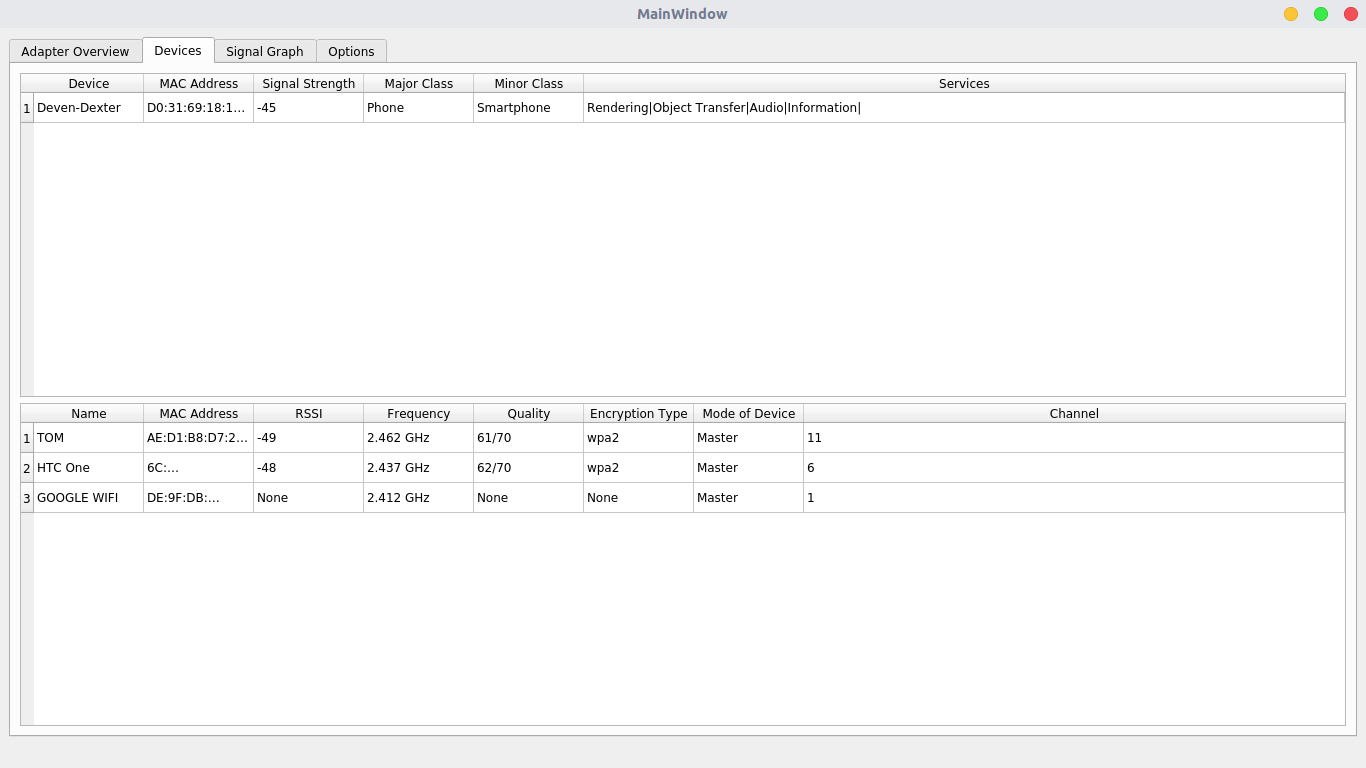
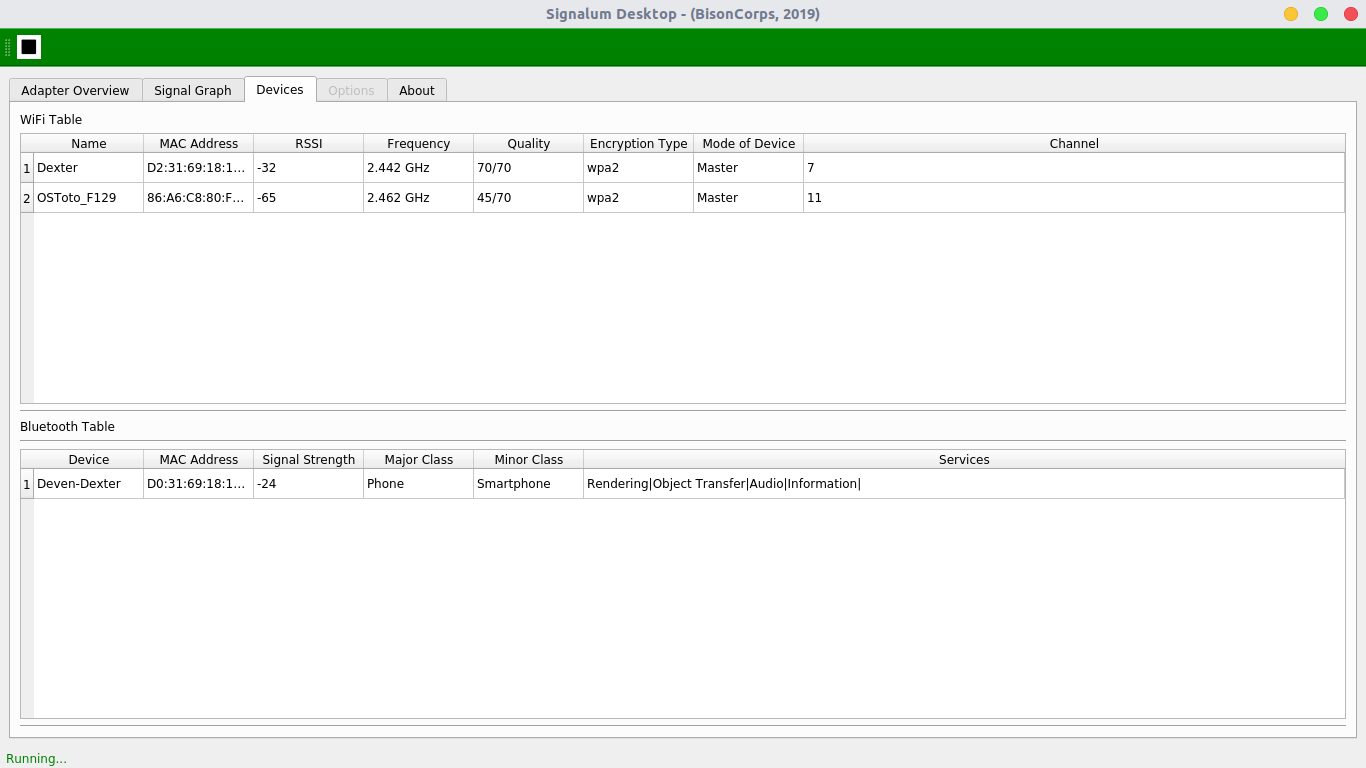
changed example images

diff --git a/src/main/python/qt/signalum_desktop.py b/src/main/python/qt/signalum_desktop.py
@@ -127,21 +127,12 @@ class Ui_MainWindow(object):
         brush = QtGui.QBrush(QtGui.QColor(255, 255, 255))
         brush.setStyle(QtCore.Qt.SolidPattern)
         palette.setBrush(QtGui.QPalette.Active, QtGui.QPalette.Text, brush)
-        brush = QtGui.QBrush(QtGui.QColor(255, 255, 255, 128))
-        brush.setStyle(QtCore.Qt.NoBrush)
-        palette.setBrush(QtGui.QPalette.Active, QtGui.QPalette.PlaceholderText, brush)
         brush = QtGui.QBrush(QtGui.QColor(255, 255, 255))
         brush.setStyle(QtCore.Qt.SolidPattern)
         palette.setBrush(QtGui.QPalette.Inactive, QtGui.QPalette.Text, brush)
-        brush = QtGui.QBrush(QtGui.QColor(255, 255, 255, 128))
-        brush.setStyle(QtCore.Qt.NoBrush)
-        palette.setBrush(QtGui.QPalette.Inactive, QtGui.QPalette.PlaceholderText, brush)
         brush = QtGui.QBrush(QtGui.QColor(190, 190, 190))
         brush.setStyle(QtCore.Qt.SolidPattern)
         palette.setBrush(QtGui.QPalette.Disabled, QtGui.QPalette.Text, brush)
-        brush = QtGui.QBrush(QtGui.QColor(255, 255, 255, 128))
-        brush.setStyle(QtCore.Qt.NoBrush)
-        palette.setBrush(QtGui.QPalette.Disabled, QtGui.QPalette.PlaceholderText, brush)
         self.graphTab.setPalette(palette)
         self.graphTab.setObjectName("graphTab")
         self.verticalLayout_7 = QtWidgets.QVBoxLayout(self.graphTab)
@@ -326,6 +317,53 @@ class Ui_MainWindow(object):
         self.verticalLayout_12.setObjectName("verticalLayout_12")
         self.verticalLayout_5.addLayout(self.verticalLayout_12)
         self.tabWidget.addTab(self.optionsTab, "")
+        self.About = QtWidgets.QWidget()
+        self.About.setObjectName("About")
+        self.verticalLayout_9 = QtWidgets.QVBoxLayout(self.About)
+        self.verticalLayout_9.setObjectName("verticalLayout_9")
+        self.textEdit = QtWidgets.QTextEdit(self.About)
+        self.textEdit.setObjectName("textEdit")
+        self.verticalLayout_9.addWidget(self.textEdit)
+        self.line_9 = QtWidgets.QFrame(self.About)
+        self.line_9.setFrameShape(QtWidgets.QFrame.HLine)
+        self.line_9.setFrameShadow(QtWidgets.QFrame.Sunken)
+        self.line_9.setObjectName("line_9")
+        self.verticalLayout_9.addWidget(self.line_9)
+        self.label_6 = QtWidgets.QLabel(self.About)
+        self.label_6.setObjectName("label_6")
+        self.verticalLayout_9.addWidget(self.label_6)
+        self.line_10 = QtWidgets.QFrame(self.About)
+        self.line_10.setFrameShape(QtWidgets.QFrame.HLine)
+        self.line_10.setFrameShadow(QtWidgets.QFrame.Sunken)
+        self.line_10.setObjectName("line_10")
+        self.verticalLayout_9.addWidget(self.line_10)
+        self.horizontalLayout = QtWidgets.QHBoxLayout()
+        self.horizontalLayout.setObjectName("horizontalLayout")
+        self.textEdit_2 = QtWidgets.QTextEdit(self.About)
+        self.textEdit_2.setObjectName("textEdit_2")
+        self.horizontalLayout.addWidget(self.textEdit_2)
+        self.textEdit_3 = QtWidgets.QTextEdit(self.About)
+        self.textEdit_3.setEnabled(True)
+        self.textEdit_3.setObjectName("textEdit_3")
+        self.horizontalLayout.addWidget(self.textEdit_3)
+        self.textEdit_4 = QtWidgets.QTextEdit(self.About)
+        self.textEdit_4.setObjectName("textEdit_4")
+        self.horizontalLayout.addWidget(self.textEdit_4)
+        self.line_12 = QtWidgets.QFrame(self.About)
+        self.line_12.setFrameShape(QtWidgets.QFrame.VLine)
+        self.line_12.setFrameShadow(QtWidgets.QFrame.Sunken)
+        self.line_12.setObjectName("line_12")
+        self.horizontalLayout.addWidget(self.line_12)
+        self.textEdit_5 = QtWidgets.QTextEdit(self.About)
+        self.textEdit_5.setObjectName("textEdit_5")
+        self.horizontalLayout.addWidget(self.textEdit_5)
+        self.line_13 = QtWidgets.QFrame(self.About)
+        self.line_13.setFrameShape(QtWidgets.QFrame.VLine)
+        self.line_13.setFrameShadow(QtWidgets.QFrame.Sunken)
+        self.line_13.setObjectName("line_13")
+        self.horizontalLayout.addWidget(self.line_13)
+        self.verticalLayout_9.addLayout(self.horizontalLayout)
+        self.tabWidget.addTab(self.About, "")
         self.verticalLayout.addWidget(self.tabWidget)
         MainWindow.setCentralWidget(self.centralwidget)
         self.menubar = QtWidgets.QMenuBar(MainWindow)
@@ -337,7 +375,7 @@ class Ui_MainWindow(object):
         MainWindow.setStatusBar(self.statusbar)
 
         self.retranslateUi(MainWindow)
-        self.tabWidget.setCurrentIndex(0)
+        self.tabWidget.setCurrentIndex(4)
         QtCore.QMetaObject.connectSlotsByName(MainWindow)
 
     def retranslateUi(self, MainWindow):
@@ -431,4 +469,56 @@ class Ui_MainWindow(object):
         self.wifiSwitch.setText(_translate("MainWindow", "Turn Wifi on"))
         self.bluetoothSwitch.setText(_translate("MainWindow", "Turn Bluetooth on"))
         self.tabWidget.setTabText(self.tabWidget.indexOf(self.optionsTab), _translate("MainWindow", "Options"))
+        self.textEdit.setHtml(_translate("MainWindow", "<!DOCTYPE HTML PUBLIC \"-//W3C//DTD HTML 4.0//EN\" \"http://www.w3.org/TR/REC-html40/strict.dtd\">\n"
+"<html><head><meta name=\"qrichtext\" content=\"1\" /><style type=\"text/css\">\n"
+"p, li { white-space: pre-wrap; }\n"
+"</style></head><body style=\" font-family:\'Ubuntu\'; font-size:11pt; font-weight:400; font-style:normal;\">\n"
+"<p align=\"justify\" style=\" margin-top:0px; margin-bottom:0px; margin-left:0px; margin-right:0px; -qt-block-indent:0; text-indent:0px;\"><span style=\" font-size:16pt; font-weight:600;\">About Signalum Desktop</span></p>\n"
+"<p align=\"justify\" style=\"-qt-paragraph-type:empty; margin-top:0px; margin-bottom:0px; margin-left:0px; margin-right:0px; -qt-block-indent:0; text-indent:0px; font-size:16pt; font-weight:600;\"><br /></p>\n"
+"<p align=\"justify\" style=\" margin-top:0px; margin-bottom:0px; margin-left:0px; margin-right:0px; -qt-block-indent:0; text-indent:0px;\"><span style=\" font-weight:600; font-style:italic;\">Signalum Desktop</span> is the official desktop application surrounding the python <span style=\" font-weight:600; font-style:italic;\">signalum</span> library. It was created out of the neccessity of lack of a GUI tool that featured real-time simultaneous signal details of wifi and bluetooth signals.</p>\n"
+"<p align=\"justify\" style=\"-qt-paragraph-type:empty; margin-top:0px; margin-bottom:0px; margin-left:0px; margin-right:0px; -qt-block-indent:0; text-indent:0px;\"><br /></p>\n"
+"<p align=\"justify\" style=\" margin-top:0px; margin-bottom:0px; margin-left:0px; margin-right:0px; -qt-block-indent:0; text-indent:0px;\"><a href=\"https://github.com/bisoncorps/signalum-desktop\"><span style=\" text-decoration: underline; color:#f57900;\">Github</span></a></p>\n"
+"<p align=\"justify\" style=\" margin-top:0px; margin-bottom:0px; margin-left:0px; margin-right:0px; -qt-block-indent:0; text-indent:0px;\"><a href=\"https://github.com/bisoncorps/signalum-desktop/issues\"><span style=\" text-decoration: underline; color:#f57900;\">Report Issues</span></a></p>\n"
+"<p align=\"justify\" style=\" margin-top:0px; margin-bottom:0px; margin-left:0px; margin-right:0px; -qt-block-indent:0; text-indent:0px;\"><a href=\"https://github.com/bisoncorps/signalum\"><span style=\" text-decoration: underline; color:#f57900;\">Python Library</span></a></p></body></html>"))
+        self.label_6.setText(_translate("MainWindow", "Development Team"))
+        self.textEdit_2.setHtml(_translate("MainWindow", "<!DOCTYPE HTML PUBLIC \"-//W3C//DTD HTML 4.0//EN\" \"http://www.w3.org/TR/REC-html40/strict.dtd\">\n"
+"<html><head><meta name=\"qrichtext\" content=\"1\" /><style type=\"text/css\">\n"
+"p, li { white-space: pre-wrap; }\n"
+"</style></head><body style=\" font-family:\'Ubuntu\'; font-size:11pt; font-weight:400; font-style:normal;\">\n"
+"<p align=\"justify\" style=\" margin-top:0px; margin-bottom:0px; margin-left:0px; margin-right:0px; -qt-block-indent:0; text-indent:0px;\"><span style=\" font-weight:600;\">Mmadu Manasseh</span></p>\n"
+"<p align=\"justify\" style=\"-qt-paragraph-type:empty; margin-top:0px; margin-bottom:0px; margin-left:0px; margin-right:0px; -qt-block-indent:0; text-indent:0px; font-weight:600;\"><br /></p>\n"
+"<p align=\"justify\" style=\" margin-top:0px; margin-bottom:0px; margin-left:0px; margin-right:0px; -qt-block-indent:0; text-indent:0px;\">Python, React, C++ Developer</p>\n"
+"<p align=\"justify\" style=\"-qt-paragraph-type:empty; margin-top:0px; margin-bottom:0px; margin-left:0px; margin-right:0px; -qt-block-indent:0; text-indent:0px;\"><br /></p>\n"
+"<p align=\"justify\" style=\" margin-top:0px; margin-bottom:0px; margin-left:0px; margin-right:0px; -qt-block-indent:0; text-indent:0px;\"><a href=\"https://mensaah.github.io\"><span style=\" text-decoration: underline; color:#f57900;\">Website</span></a></p>\n"
+"<p align=\"justify\" style=\" margin-top:0px; margin-bottom:0px; margin-left:0px; margin-right:0px; -qt-block-indent:0; text-indent:0px;\"><a href=\"https://github.com/MensaaH\"><span style=\" text-decoration: underline; color:#f57900;\">Github</span></a></p></body></html>"))
+        self.textEdit_3.setHtml(_translate("MainWindow", "<!DOCTYPE HTML PUBLIC \"-//W3C//DTD HTML 4.0//EN\" \"http://www.w3.org/TR/REC-html40/strict.dtd\">\n"
+"<html><head><meta name=\"qrichtext\" content=\"1\" /><style type=\"text/css\">\n"
+"p, li { white-space: pre-wrap; }\n"
+"</style></head><body style=\" font-family:\'Ubuntu\'; font-size:11pt; font-weight:400; font-style:normal;\">\n"
+"<p align=\"justify\" style=\" margin-top:0px; margin-bottom:0px; margin-left:0px; margin-right:0px; -qt-block-indent:0; text-indent:0px;\"><span style=\" font-weight:600;\">Diretnan Domnan</span></p>\n"
+"<p align=\"justify\" style=\"-qt-paragraph-type:empty; margin-top:0px; margin-bottom:0px; margin-left:0px; margin-right:0px; -qt-block-indent:0; text-indent:0px; font-weight:600;\"><br /></p>\n"
+"<p align=\"justify\" style=\" margin-top:0px; margin-bottom:0px; margin-left:0px; margin-right:0px; -qt-block-indent:0; text-indent:0px;\">Python Developer and AI Engineer</p>\n"
+"<p align=\"justify\" style=\"-qt-paragraph-type:empty; margin-top:0px; margin-bottom:0px; margin-left:0px; margin-right:0px; -qt-block-indent:0; text-indent:0px;\"><br /></p>\n"
+"<p align=\"justify\" style=\" margin-top:0px; margin-bottom:0px; margin-left:0px; margin-right:0px; -qt-block-indent:0; text-indent:0px;\"><a href=\"https://diretnandomnan.webnode.com\"><span style=\" text-decoration: underline; color:#f57900;\">Website</span></a></p>\n"
+"<p align=\"justify\" style=\" margin-top:0px; margin-bottom:0px; margin-left:0px; margin-right:0px; -qt-block-indent:0; text-indent:0px;\"><a href=\"https://github.com/deven96\"><span style=\" text-decoration: underline; color:#f57900;\">Github</span></a></p></body></html>"))
+        self.textEdit_4.setHtml(_translate("MainWindow", "<!DOCTYPE HTML PUBLIC \"-//W3C//DTD HTML 4.0//EN\" \"http://www.w3.org/TR/REC-html40/strict.dtd\">\n"
+"<html><head><meta name=\"qrichtext\" content=\"1\" /><style type=\"text/css\">\n"
+"p, li { white-space: pre-wrap; }\n"
+"</style></head><body style=\" font-family:\'Ubuntu\'; font-size:11pt; font-weight:400; font-style:normal;\">\n"
+"<p align=\"justify\" style=\" margin-top:0px; margin-bottom:0px; margin-left:0px; margin-right:0px; -qt-block-indent:0; text-indent:0px;\"><span style=\" font-weight:600;\">Wisdom Praise</span></p>\n"
+"<p align=\"justify\" style=\"-qt-paragraph-type:empty; margin-top:0px; margin-bottom:0px; margin-left:0px; margin-right:0px; -qt-block-indent:0; text-indent:0px; font-weight:600;\"><br /></p>\n"
+"<p align=\"justify\" style=\" margin-top:0px; margin-bottom:0px; margin-left:0px; margin-right:0px; -qt-block-indent:0; text-indent:0px;\">Java, Android and React Developer</p>\n"
+"<p align=\"justify\" style=\"-qt-paragraph-type:empty; margin-top:0px; margin-bottom:0px; margin-left:0px; margin-right:0px; -qt-block-indent:0; text-indent:0px;\"><br /></p>\n"
+"<p align=\"justify\" style=\" margin-top:0px; margin-bottom:0px; margin-left:0px; margin-right:0px; -qt-block-indent:0; text-indent:0px;\"><a href=\"https://wizzywit.github.io\"><span style=\" text-decoration: underline; color:#f57900;\">Website</span></a></p>\n"
+"<p align=\"justify\" style=\" margin-top:0px; margin-bottom:0px; margin-left:0px; margin-right:0px; -qt-block-indent:0; text-indent:0px;\"><a href=\"https://github.com/wizzywit\"><span style=\" text-decoration: underline; color:#f57900;\">Github</span></a></p></body></html>"))
+        self.textEdit_5.setHtml(_translate("MainWindow", "<!DOCTYPE HTML PUBLIC \"-//W3C//DTD HTML 4.0//EN\" \"http://www.w3.org/TR/REC-html40/strict.dtd\">\n"
+"<html><head><meta name=\"qrichtext\" content=\"1\" /><style type=\"text/css\">\n"
+"p, li { white-space: pre-wrap; }\n"
+"</style></head><body style=\" font-family:\'Ubuntu\'; font-size:11pt; font-weight:400; font-style:normal;\">\n"
+"<p align=\"justify\" style=\" margin-top:0px; margin-bottom:0px; margin-left:0px; margin-right:0px; -qt-block-indent:0; text-indent:0px;\"><span style=\" font-weight:600;\">Engr. Ajao Lukman</span></p>\n"
+"<p align=\"justify\" style=\"-qt-paragraph-type:empty; margin-top:0px; margin-bottom:0px; margin-left:0px; margin-right:0px; -qt-block-indent:0; text-indent:0px; font-weight:600;\"><br /></p>\n"
+"<p align=\"justify\" style=\" margin-top:0px; margin-bottom:0px; margin-left:0px; margin-right:0px; -qt-block-indent:0; text-indent:0px;\">Engineer and Lead Technologist at Computer Engineering Department, Federal University Of Technology, Minna, Nigeria</p>\n"
+"<p align=\"justify\" style=\"-qt-paragraph-type:empty; margin-top:0px; margin-bottom:0px; margin-left:0px; margin-right:0px; -qt-block-indent:0; text-indent:0px;\"><br /></p>\n"
+"<p align=\"justify\" style=\" margin-top:0px; margin-bottom:0px; margin-left:0px; margin-right:0px; -qt-block-indent:0; text-indent:0px;\"><a href=\"contact\"><span style=\" text-decoration: underline; color:#f57900;\">Contact</span></a></p></body></html>"))
+        self.tabWidget.setTabText(self.tabWidget.indexOf(self.About), _translate("MainWindow", "About"))
 

diff --git a/src/main/python/app.py b/src/main/python/app.py
@@ -22,18 +22,21 @@ class App(QtWidgets.QMainWindow, signalum_desktop.Ui_MainWindow):
         self.setupUi(self)
 
         # Define Some Actions
-        playAction = self.create_action(
+        self.playAction = self.create_action(
             '&Play...', self.start, 'Ctrl + P', 'start', 'Start/Continue Scanning')
-        stopAction = self.create_action(
+        self.stopAction = self.create_action(
             '&Stop...', self.stop, 'Ctrl + B', 'stop', 
             'Stop/Pause Scanning')
 
-        actionToolBar = self.addToolBar('Action')
-        actionToolBar.setObjectName('actionToolBar')
-        self.add_actions(actionToolBar, (playAction, stopAction))
+        self.actionToolBar = self.addToolBar('Action')
+        self.actionToolBar.setObjectName('actionToolBar')
+        self.add_actions(self.actionToolBar, (self.playAction, ))
         status = self.statusBar()
         status.setSizeGripEnabled(False)
         status.showMessage('Ready', 5000)
+
+        # get options tab index
+        self.optionsTabIndex = self.tabWidget.indexOf(self.optionsTab)
 
         # Configure Application Settings
         self.settings = QtCore.QSettings('BisonCorps', 'signalum')
@@ -99,7 +102,7 @@ class App(QtWidgets.QMainWindow, signalum_desktop.Ui_MainWindow):
             'bt_services', self.showBluetoothServices.isChecked())
         self.settings.setValue('bt_names', self.showBluetoothNames.isChecked())
         success = QtWidgets.QMessageBox.information(
-            self, 'Signalum', 'Changes Saved Successfully')
+            self, 'Signalum Desktop', 'Changes Saved Successfully')
         # Reload Application UI and protocol
         self.clear_layout(self.bluetoothGraphLayout)
         self.clear_layout(self.wifiGraphLayout)
@@ -131,6 +134,31 @@ class App(QtWidgets.QMainWindow, signalum_desktop.Ui_MainWindow):
                 target.addSeparator()
             else:
                 target.addAction(action)
+    
+    def remove_actions(self, target, actions):
+        """ Remove actions from a toolbar or menu """
+        for action in actions:
+            if action is None:
+                pass
+            else:
+                target.removeAction(action)
+    
+    def play_stop_transition(self, action="play", color="green"):
+        """ Transition from remove_action to add_action """
+        if action == "play":
+            self.remove_actions(self.actionToolBar, (self.playAction, ))
+            self.add_actions(self.actionToolBar, (self.stopAction, ))
+            if self.tabWidget.currentIndex() == self.optionsTabIndex:
+                self.tabWidget.setCurrentIndex(2)
+            # disable options tab during run
+            self.tabWidget.setTabEnabled(self.optionsTabIndex, False)
+        elif action == "stop":
+            self.remove_actions(self.actionToolBar, (self.stopAction, ))
+            self.add_actions(self.actionToolBar, (self.playAction, ))
+            # enable options tab during stop
+            self.tabWidget.setTabEnabled(self.optionsTabIndex, True)
+        # change color of actionToolbar
+        self.actionToolBar.setStyleSheet("background-color: %s" %color)
 
     def configure_protocol(self, graph_layout, graph_toolbar, protocol, enabled=False):
         """ Configures a protocol for display if it has being enabled in settings """
@@ -220,19 +248,23 @@ class App(QtWidgets.QMainWindow, signalum_desktop.Ui_MainWindow):
             self.load_displays(self._wifi_enabled, self._bt_enabled)
             self.is_running = True
             self.update_status('Starting, may take a while ...')
+            # transition from play to stop
+            self.play_stop_transition()
 
     def stop(self):
         """
         Stops the signalum process. This terminates the running threads
         """
-        self.update_status('Stopping, may take a while...', color="red")
+        stop_color = "red"
+        self.update_status('Stopping, may take a while...', color=stop_color)
         if self.is_running:
             if self.bt_worker:
                 self.bt_worker.stop_action()
             if self.wf_worker:
                 self.wf_worker.stop_action()
-            self.update_status('Stopping, may take a while...', color="red")
+            self.update_status('Stopping, may take a while...', color=stop_color)
             self.is_running = False
+            self.play_stop_transition(action="stop", color=stop_color)
 
     def custom_quit(self, thread):
         """ Custom quit thread """

diff --git a/src/main/python/main.py b/src/main/python/main.py
@@ -17,7 +17,7 @@ if __name__ == '__main__':
     app.setApplicationName("Signalum")
     a = App()
     splash.showMessage("Loading application")
-    a.setWindowTitle("Signalum Desktop - Powered by BisonCorps")
+    a.setWindowTitle("Signalum Desktop - (BisonCorps, 2019)")
     a.show()
     splash.showMessage("Finished loading application")
     splash.finish(a)

diff --git a/README.md b/README.md
@@ -1,6 +1,6 @@
 <p align="center">
-  <img src="assets/signalum.png" height="100" /><br/>
-  <span><b style="font-size:40px">Signalum Desktop</b>
+  <img src="src/main/resources/base/signalum.png" height="100" /><br/>
+  <span> <center> <h1 style="font-size: 40px;">Signalum Desktop</h1> </center> </span>
 </p>
 <br>
 
